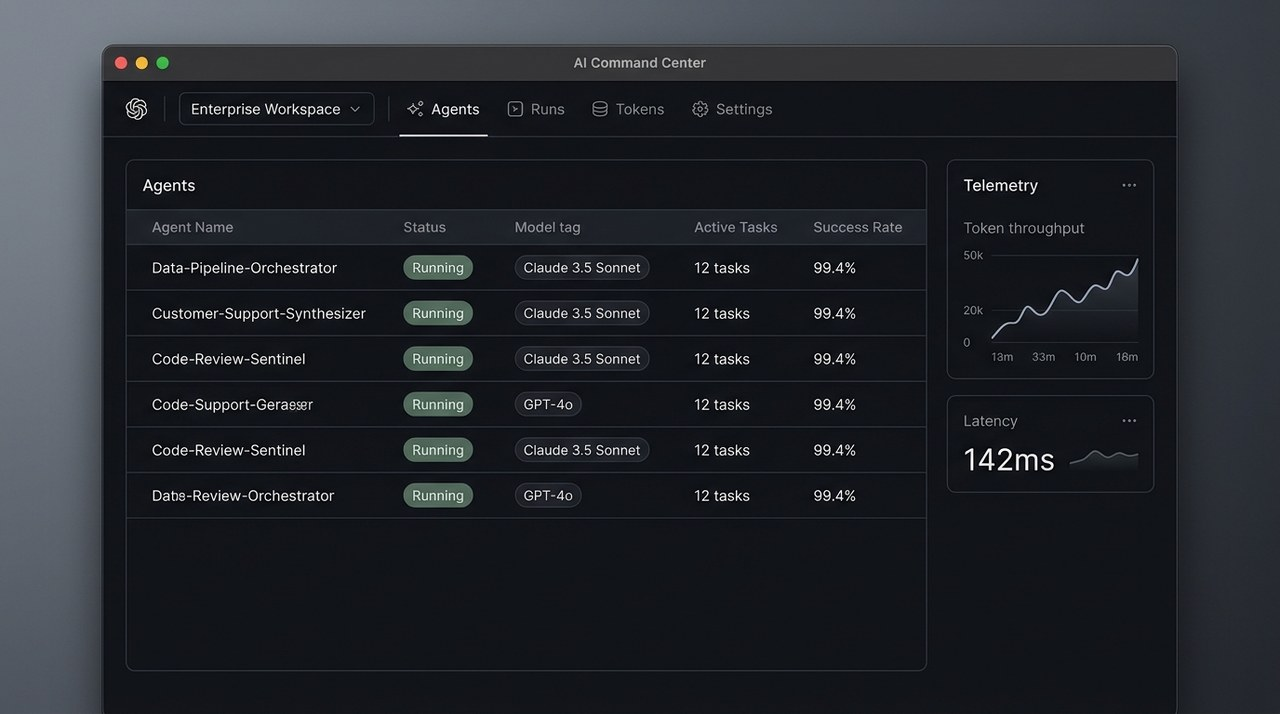
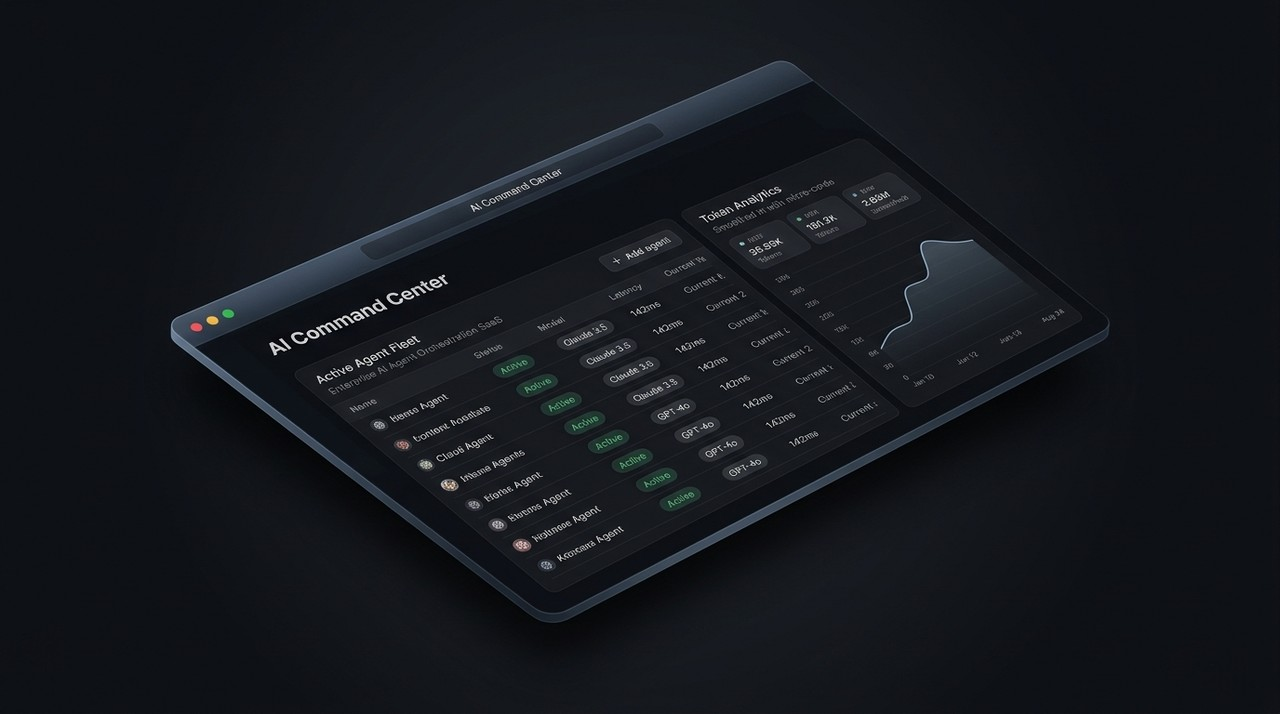
feat(portfolio): focus on the 3 flagship projects (AI Command Center, VNbaas, VNLinks) with 3D showcase perspective mockups

diff --git a/components/home/PortfolioArea.vue b/components/home/PortfolioArea.vue
@@ -3,18 +3,15 @@ import { ref } from "vue";
 import portfolio_img_1 from "~/assets/images/projects/work1.jpg";
 import portfolio_img_2 from "~/assets/images/projects/work2.jpg";
 import portfolio_img_3 from "~/assets/images/projects/work3.jpg";
-import portfolio_img_4 from "~/assets/images/projects/work4.jpg";
-import portfolio_img_5 from "~/assets/images/projects/work5.jpg";
-import portfolio_img_6 from "~/assets/images/projects/work6.jpg";
 
 const portfolio_data = [
   {
     id: 1,
     img: portfolio_img_1,
     category: "IA & SaaS",
-    title: "AI Command Center — Orquestração & Governança",
-    desc: "Plataforma SaaS multi-tenant para supervisão de agentes de IA, histórico de tool calls, aprovação humana e faturamento automatizado.",
-    stack: "Next.js 15 • Drizzle ORM • Better Auth • Playwright",
+    title: "AI Command Center — Orquestração & Governança de Agentes",
+    desc: "Plataforma SaaS enterprise multi-tenant para supervisão de agentes autônomos de IA, histórico de tool calls, aprovação humana e faturamento automatizado.",
+    stack: "Next.js 15 • React 19 • Drizzle ORM • Better Auth • PostgreSQL",
     link: "/projects/ai-command-center",
     demo: "https://ai-command-center-silk.vercel.app",
     repo: "https://github.com/vn-24k/ai-command-center",
@@ -24,50 +21,16 @@ const portfolio_data = [
     id: 2,
     img: portfolio_img_2,
     category: "Backend & Dados",
-    title: "VNbaas — Backend-as-a-Service & Database Console",
-    desc: "Engine própria de BaaS com Console SQL interativo, busca semântica por vetores (Gemini SDK), Realtime WebSockets e Storage.",
-    stack: "React 19 • Node.js Express • PostgreSQL • Gemini",
+    title: "VNbaas — Backend-as-a-Service & Database Engine",
+    desc: "Engine própria de BaaS com Console SQL interativo, busca semântica vetorial com embeddings, Realtime WebSockets e gerenciamento de storage.",
+    stack: "React 19 • Node.js Express • PostgreSQL • Gemini SDK",
     link: "/projects/vnbaas",
     repo: "https://github.com/vn-24k/VnBaas",
     badge: "Engine Real"
   },
   {
     id: 3,
-    img: portfolio_img_4,
-    category: "Sistemas & DevOps",
-    title: "Neural Shell — CLI Autônoma de Engenharia",
-    desc: "Interface de linha de comando orientada a agentes de inteligência artificial para automação de tarefas de desenvolvimento e pipelines.",
-    stack: "Python • Automação • CLI • Linux Scripts",
-    link: "https://github.com/vn-24k/neural-shell",
-    repo: "https://github.com/vn-24k/neural-shell",
-    badge: "Open Source"
-  },
-  {
-    id: 4,
     img: portfolio_img_3,
-    category: "Sistemas & DevOps",
-    title: "Strata Engine — Telemetria de Computação Cognitiva",
-    desc: "Infraestrutura distribuída com telemetria reativa para monitoramento de nós de computação e integridade de cluster em tempo real.",
-    stack: "React 19 • Tailwind CSS v4 • Framer Motion",
-    link: "https://strata-engine-phi.vercel.app",
-    demo: "https://strata-engine-phi.vercel.app",
-    repo: "https://github.com/vn-24k/strata-engine",
-    badge: "Deploy Ativo"
-  },
-  {
-    id: 5,
-    img: portfolio_img_5,
-    category: "Backend & Dados",
-    title: "Media Vault — Gestão & Custódia de Ativos",
-    desc: "Arquitetura para custódia segura, catalogação indexada e processamento de fluxos de mídia digital em ambientes de alta disponibilidade.",
-    stack: "Backend • APIs • Storage • Segurança",
-    link: "https://github.com/vn-24k/media-vault",
-    repo: "https://github.com/vn-24k/media-vault",
-    badge: "Segurança"
-  },
-  {
-    id: 6,
-    img: portfolio_img_6,
     category: "Frontend & Web",
     title: "VNLinks — Plataforma Estratégica & Hub Interativo",
     desc: "Hub estratégico de apresentação profissional e links com console interativo de skills em tempo real, audio feedback e arquitetura responsiva.",
@@ -76,7 +39,7 @@ const portfolio_data = [
     demo: "https://vnlinks.vercel.app",
     repo: "https://github.com/vn-24k/bio-link-pro",
     badge: "Deploy Ativo"
-  },
+  }
 ];
 
 const categories = [

diff --git a/pages/projects.vue b/pages/projects.vue
@@ -9,7 +9,7 @@ useHead({
   meta: [
     {
       name: "description",
-      content: "Portfólio de projetos reais de Vinícius Silva: AI Command Center (SaaS multi-tenant com Drizzle ORM e Better Auth), VNbaas (BaaS proprietário e Database Engine), Neural Shell CLI e sistemas em produção."
+      content: "Portfólio de projetos reais de Vinícius Silva: AI Command Center (SaaS multi-tenant com Drizzle ORM e Better Auth), VNbaas (BaaS proprietário e Database Engine com vetores) e VNLinks (hub estratégico interativo)."
     }
   ]
 });

diff --git a/pages/works.vue b/pages/works.vue
@@ -9,7 +9,7 @@ useHead({
   meta: [
     {
       name: "description",
-      content: "Portfólio de engenharia de software e arquitetura de IA de Vinícius Silva: AI Command Center, VNbaas, Neural Shell e aplicações corporativas."
+      content: "Portfólio de engenharia de software e arquitetura de IA de Vinícius Silva: AI Command Center, VNbaas e VNLinks em produção."
     }
   ]
 });
